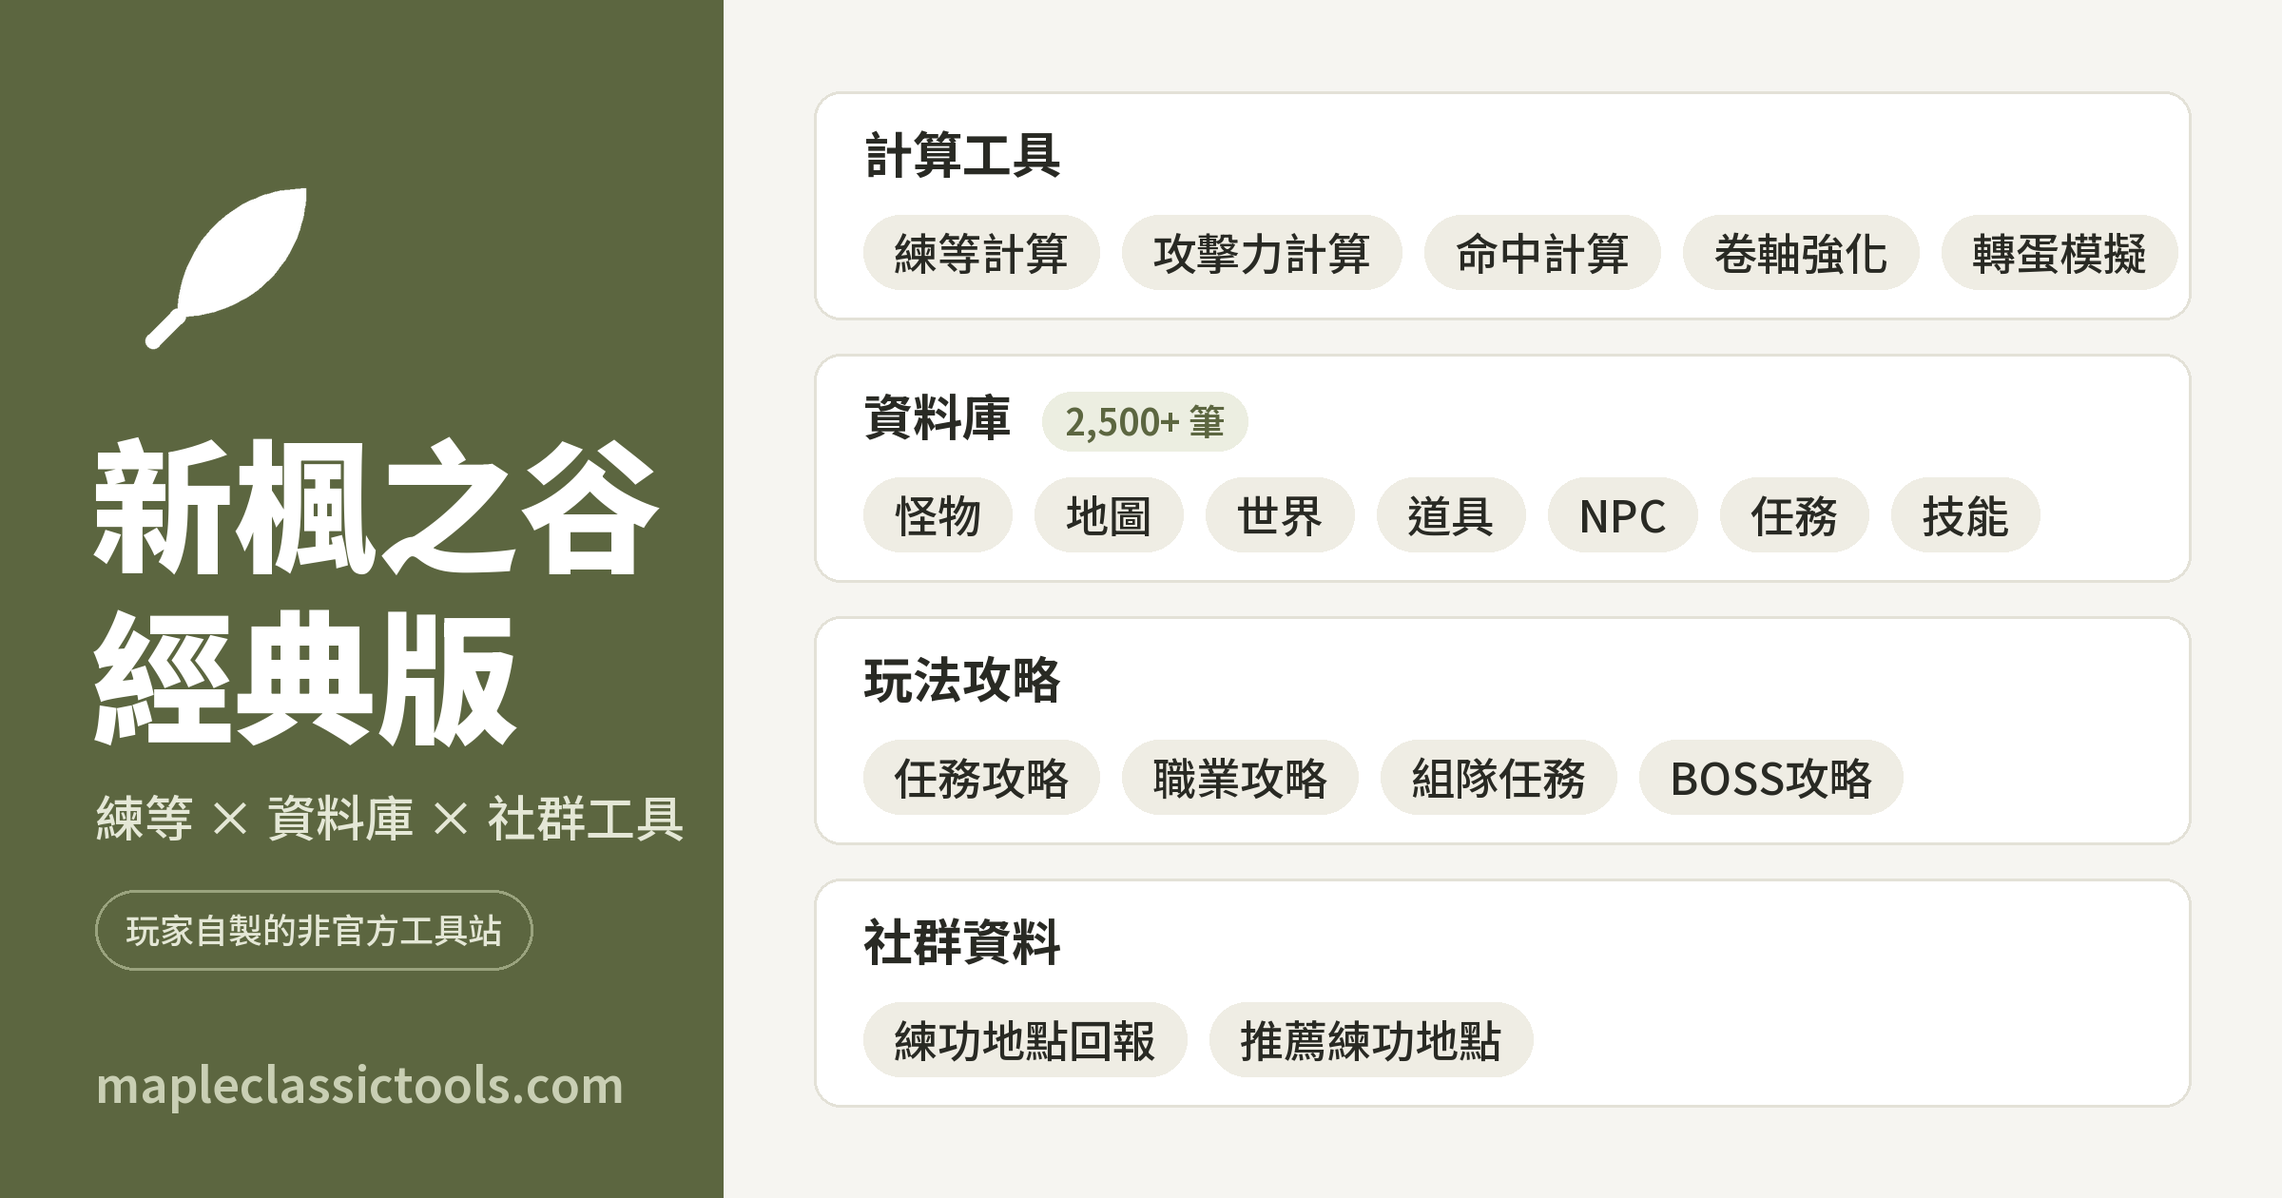
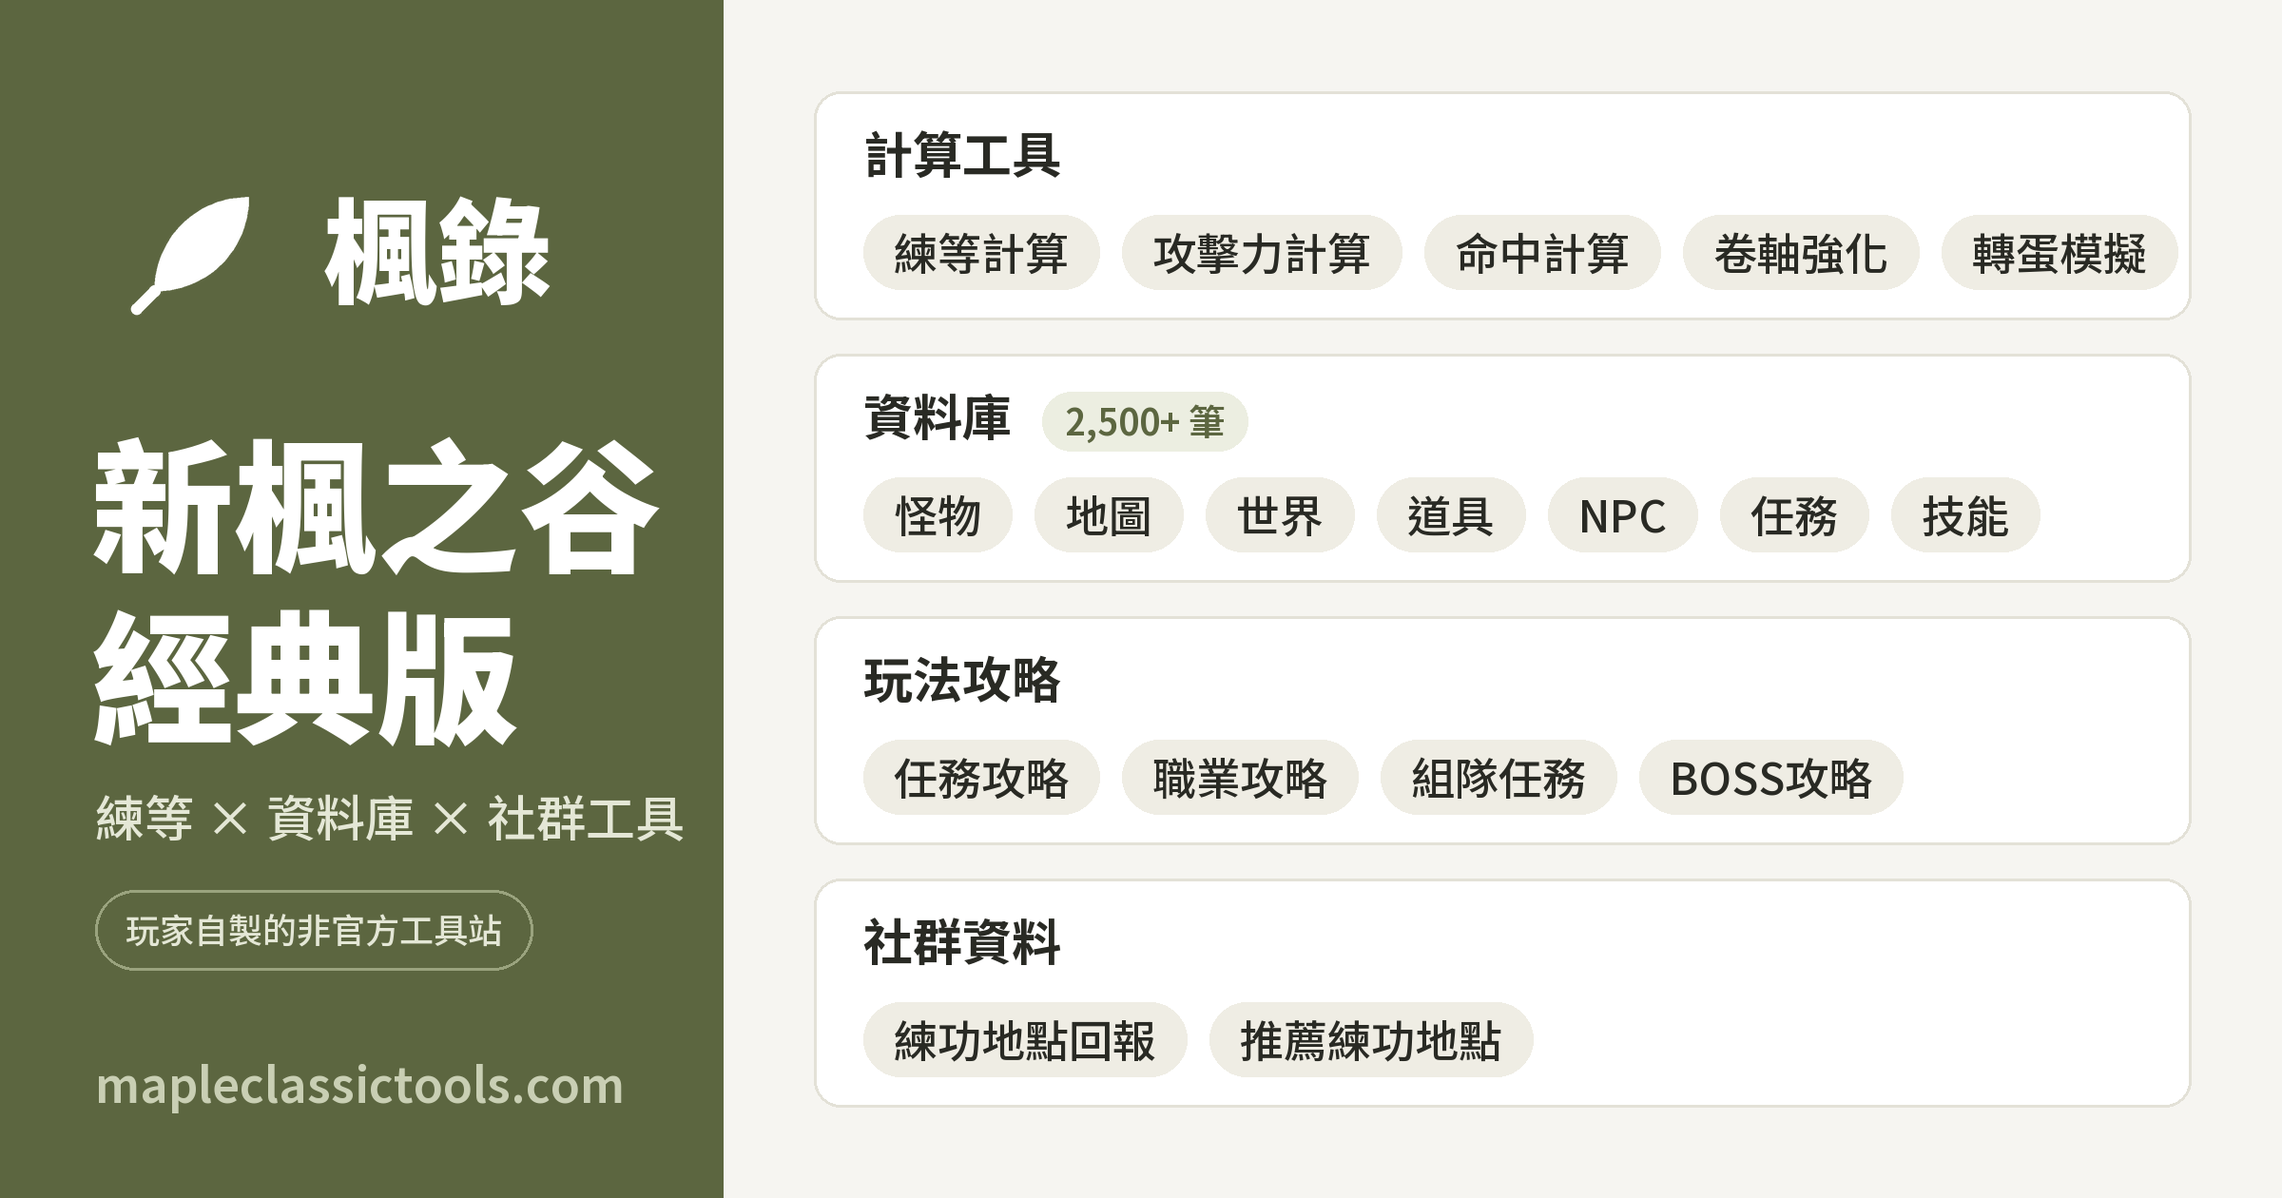
OG 預覽圖補上「楓錄」品牌名，版本戳 +1
圖片本身的文字是純文字掃描抓不到的地方（tools/check_seo_copy.py 的既有
提醒），改名之後這張圖沒跟著更新。在葉子 icon 旁邊掛上「楓錄」，跟站上
側邊欄 logo（icon + 站名並排）同一種排法；icon 縮小到 220px 讓字有地方放，
「新楓之谷經典版」大標題與其餘版面不變。

改完圖照 build_og.py 自己的提醒把全站 og-image.png?v= 版本號 11→12
（index.html、guides/*、privacy），避免分享出去的卡片還是 CDN 快取的舊圖。

順手掃過 robots.txt、JS 分享相關程式碼、icon-192/512.png，確認沒有其他
地方殘留舊站名或需要跟著改的東西。三支把關腳本全過。

Changed region(s): [[0.0625, 0.1548, 0.25, 0.3095]]

diff --git a/index.html b/index.html
@@ -23,7 +23,7 @@
 <meta property="og:site_name" content="楓錄">
 <meta property="og:locale" content="zh_TW">
 <meta property="og:url" content="https://mapleclassictools.com/">
-<meta property="og:image" content="https://mapleclassictools.com/og-image.png?v=11">
+<meta property="og:image" content="https://mapleclassictools.com/og-image.png?v=12">
 <meta property="og:image:width" content="2400">
 <meta property="og:image:height" content="1260">
 <meta property="og:title" content="楓錄｜新楓之谷經典版練等 × 資料庫 × 社群工具">
@@ -31,7 +31,7 @@
 <meta name="twitter:card" content="summary_large_image">
 <meta name="twitter:title" content="楓錄｜新楓之谷經典版練等 × 資料庫 × 社群工具">
 <meta name="twitter:description" content="練等經驗值試算、攻擊力與命中計算、卷軸與轉蛋模擬，加上怪物／地圖／道具／NPC／任務／技能完整資料庫與世界地圖，還有任務與職業攻略、社群練功地點。">
-<meta name="twitter:image" content="https://mapleclassictools.com/og-image.png?v=11">
+<meta name="twitter:image" content="https://mapleclassictools.com/og-image.png?v=12">
 <meta name="author" content="xyzzxc00">
 <meta name="keywords" content="新楓之谷經典版,練等計算機,楓之谷經典版,MapleStory Classic,經驗值計算,升級時間,加倍卷,練功地點,組隊任務,台版楓之谷經典服,經典版資料庫,怪物掉落查詢,命中率計算,攻擊力計算,傷害計算,表攻,世界地圖,任務攻略,職業攻略,裝備數值浮動">
 <link rel="canonical" href="https://mapleclassictools.com/">

diff --git a/guides/job-selection-guide/index.html b/guides/job-selection-guide/index.html
@@ -22,7 +22,7 @@
 <meta property="og:site_name" content="楓錄">
 <meta property="og:locale" content="zh_TW">
 <meta property="og:url" content="https://mapleclassictools.com/guides/job-selection-guide/">
-<meta property="og:image" content="https://mapleclassictools.com/og-image.png?v=11">
+<meta property="og:image" content="https://mapleclassictools.com/og-image.png?v=12">
 <meta property="og:image:width" content="2400">
 <meta property="og:image:height" content="1260">
 <meta property="og:title" content="新楓之谷經典版選職業指南：五大職業怎麼選？">
@@ -30,7 +30,7 @@
 <meta name="twitter:card" content="summary_large_image">
 <meta name="twitter:title" content="新楓之谷經典版選職業指南：五大職業怎麼選？">
 <meta name="twitter:description" content="從戰鬥距離、前期容錯率、上手難度、團隊定位幫你抓方向，附五大職業比較表與常見情境對照。">
-<meta name="twitter:image" content="https://mapleclassictools.com/og-image.png?v=11">
+<meta name="twitter:image" content="https://mapleclassictools.com/og-image.png?v=12">
 <meta name="author" content="xyzzxc00">
 <meta name="keywords" content="新楓之谷經典版,選職業,職業推薦,劍士系,法師系,弓箭手系,盜賊系,海盜系,新手攻略,MapleStory Classic">
 <link rel="canonical" href="https://mapleclassictools.com/guides/job-selection-guide/">

diff --git a/guides/coupon-stacking-guide/index.html b/guides/coupon-stacking-guide/index.html
@@ -22,7 +22,7 @@
 <meta property="og:site_name" content="楓錄">
 <meta property="og:locale" content="zh_TW">
 <meta property="og:url" content="https://mapleclassictools.com/guides/coupon-stacking-guide/">
-<meta property="og:image" content="https://mapleclassictools.com/og-image.png?v=11">
+<meta property="og:image" content="https://mapleclassictools.com/og-image.png?v=12">
 <meta property="og:image:width" content="2400">
 <meta property="og:image:height" content="1260">
 <meta property="og:title" content="加倍卷怎麼算最划算？新楓之谷經典版加倍卷解析">
@@ -30,7 +30,7 @@
 <meta name="twitter:card" content="summary_large_image">
 <meta name="twitter:title" content="加倍卷怎麼算最划算？新楓之谷經典版加倍卷解析">
 <meta name="twitter:description" content="多張同款卷是不是能疊更高倍率？加倍卷跟其他加成一起用該填多少進計算機？常見誤解跟計算邏輯一次講清楚。">
-<meta name="twitter:image" content="https://mapleclassictools.com/og-image.png?v=11">
+<meta name="twitter:image" content="https://mapleclassictools.com/og-image.png?v=12">
 <meta name="author" content="xyzzxc00">
 <meta name="keywords" content="新楓之谷經典版,加倍卷,經驗加成,倍率計算,練等計算機,MapleStory Classic">
 <link rel="canonical" href="https://mapleclassictools.com/guides/coupon-stacking-guide/">

diff --git a/guides/launch-leveling-guide/index.html b/guides/launch-leveling-guide/index.html
@@ -22,7 +22,7 @@
 <meta property="og:site_name" content="楓錄">
 <meta property="og:locale" content="zh_TW">
 <meta property="og:url" content="https://mapleclassictools.com/guides/launch-leveling-guide/">
-<meta property="og:image" content="https://mapleclassictools.com/og-image.png?v=11">
+<meta property="og:image" content="https://mapleclassictools.com/og-image.png?v=12">
 <meta property="og:image:width" content="2400">
 <meta property="og:image:height" content="1260">
 <meta property="og:title" content="開服第一天怎麼練？新楓之谷經典版 Lv.1~30 練功路線">
@@ -30,7 +30,7 @@
 <meta name="twitter:card" content="summary_large_image">
 <meta name="twitter:title" content="開服第一天怎麼練？新楓之谷經典版 Lv.1~30 練功路線">
 <meta name="twitter:description" content="楓之島別急著出、一轉時機、Lv.10~30 經典練功點，加上開服日最重要的人潮應對思路。">
-<meta name="twitter:image" content="https://mapleclassictools.com/og-image.png?v=11">
+<meta name="twitter:image" content="https://mapleclassictools.com/og-image.png?v=12">
 <meta name="author" content="xyzzxc00">
 <meta name="keywords" content="新楓之谷經典版,開服攻略,練功路線,Lv.1~30,新手攻略,練等,楓之島,MapleStory Classic">
 <link rel="canonical" href="https://mapleclassictools.com/guides/launch-leveling-guide/">

diff --git a/guides/job-advancement-guide/index.html b/guides/job-advancement-guide/index.html
@@ -22,7 +22,7 @@
 <meta property="og:site_name" content="楓錄">
 <meta property="og:locale" content="zh_TW">
 <meta property="og:url" content="https://mapleclassictools.com/guides/job-advancement-guide/">
-<meta property="og:image" content="https://mapleclassictools.com/og-image.png?v=11">
+<meta property="og:image" content="https://mapleclassictools.com/og-image.png?v=12">
 <meta property="og:image:width" content="2400">
 <meta property="og:image:height" content="1260">
 <meta property="og:title" content="新楓之谷經典版完整轉職路線攻略：一轉~四轉怎麼轉職">
@@ -30,7 +30,7 @@
 <meta name="twitter:card" content="summary_large_image">
 <meta name="twitter:title" content="新楓之谷經典版完整轉職路線攻略：一轉~四轉怎麼轉職">
 <meta name="twitter:description" content="五大職業一轉到四轉的完整任務流程：等級需求、NPC、地點、任務步驟一次整理。">
-<meta name="twitter:image" content="https://mapleclassictools.com/og-image.png?v=11">
+<meta name="twitter:image" content="https://mapleclassictools.com/og-image.png?v=12">
 <meta name="author" content="xyzzxc00">
 <meta name="keywords" content="新楓之谷經典版,轉職,一轉,二轉,三轉,四轉,轉職任務,pre-Big Bang,MapleStory Classic">
 <link rel="canonical" href="https://mapleclassictools.com/guides/job-advancement-guide/">

diff --git a/guides/scroll-expected-value-guide/index.html b/guides/scroll-expected-value-guide/index.html
@@ -22,7 +22,7 @@
 <meta property="og:site_name" content="楓錄">
 <meta property="og:locale" content="zh_TW">
 <meta property="og:url" content="https://mapleclassictools.com/guides/scroll-expected-value-guide/">
-<meta property="og:image" content="https://mapleclassictools.com/og-image.png?v=11">
+<meta property="og:image" content="https://mapleclassictools.com/og-image.png?v=12">
 <meta property="og:image:width" content="2400">
 <meta property="og:image:height" content="1260">
 <meta property="og:title" content="卷軸強化期望值怎麼算？新楓之谷經典版卷軸解析">
@@ -30,7 +30,7 @@
 <meta name="twitter:card" content="summary_large_image">
 <meta name="twitter:title" content="卷軸強化期望值怎麼算？新楓之谷經典版卷軸解析">
 <meta name="twitter:description" content="為什麼提早放棄報廢裝備反而更省錢？用實際數字拆解卷軸強化的期望值計算邏輯。">
-<meta name="twitter:image" content="https://mapleclassictools.com/og-image.png?v=11">
+<meta name="twitter:image" content="https://mapleclassictools.com/og-image.png?v=12">
 <meta name="author" content="xyzzxc00">
 <meta name="keywords" content="新楓之谷經典版,卷軸強化,期望值,卷軸機率,強化模擬,MapleStory Classic">
 <link rel="canonical" href="https://mapleclassictools.com/guides/scroll-expected-value-guide/">

diff --git a/guides/legacy-bosses/index.html b/guides/legacy-bosses/index.html
@@ -22,7 +22,7 @@
 <meta property="og:site_name" content="楓錄">
 <meta property="og:locale" content="zh_TW">
 <meta property="og:url" content="https://mapleclassictools.com/guides/legacy-bosses/">
-<meta property="og:image" content="https://mapleclassictools.com/og-image.png?v=11">
+<meta property="og:image" content="https://mapleclassictools.com/og-image.png?v=12">
 <meta property="og:image:width" content="2400">
 <meta property="og:image:height" content="1260">
 <meta property="og:title" content="新楓之谷經典版野王資料與前置任務攻略">
@@ -30,7 +30,7 @@
 <meta name="twitter:card" content="summary_large_image">
 <meta name="twitter:title" content="新楓之谷經典版野王資料與前置任務攻略">
 <meta name="twitter:description" content="27隻野王的等級、地點、重生時間，以及殘暴炎魔、闇黑龍王、拉圖斯的前置任務完整步驟。">
-<meta name="twitter:image" content="https://mapleclassictools.com/og-image.png?v=11">
+<meta name="twitter:image" content="https://mapleclassictools.com/og-image.png?v=12">
 <meta name="author" content="xyzzxc00">
 <meta name="keywords" content="新楓之谷經典版,野王,重生時間,殘暴炎魔,闇黑龍王,拉圖斯,前置任務,pre-Big Bang,MapleStory Classic">
 <link rel="canonical" href="https://mapleclassictools.com/guides/legacy-bosses/">

diff --git a/guides/exp-curve-guide/index.html b/guides/exp-curve-guide/index.html
@@ -22,7 +22,7 @@
 <meta property="og:site_name" content="楓錄">
 <meta property="og:locale" content="zh_TW">
 <meta property="og:url" content="https://mapleclassictools.com/guides/exp-curve-guide/">
-<meta property="og:image" content="https://mapleclassictools.com/og-image.png?v=11">
+<meta property="og:image" content="https://mapleclassictools.com/og-image.png?v=12">
 <meta property="og:image:width" content="2400">
 <meta property="og:image:height" content="1260">
 <meta property="og:title" content="經驗值表為什麼後期這麼陡？新楓之谷經典版">
@@ -30,7 +30,7 @@
 <meta name="twitter:card" content="summary_large_image">
 <meta name="twitter:title" content="經驗值表為什麼後期這麼陡？新楓之谷經典版">
 <meta name="twitter:description" content="Lv.199 升 200 要 20 億經驗值，用實際數字拆解 50 級後每級穩定成長 5.5% 的複利效果。">
-<meta name="twitter:image" content="https://mapleclassictools.com/og-image.png?v=11">
+<meta name="twitter:image" content="https://mapleclassictools.com/og-image.png?v=12">
 <meta name="author" content="xyzzxc00">
 <meta name="keywords" content="新楓之谷經典版,經驗值表,經驗曲線,pre-Big Bang,升級所需經驗,MapleStory Classic">
 <link rel="canonical" href="https://mapleclassictools.com/guides/exp-curve-guide/">

diff --git a/guides/exp-table/index.html b/guides/exp-table/index.html
@@ -22,7 +22,7 @@
 <meta property="og:site_name" content="楓錄">
 <meta property="og:locale" content="zh_TW">
 <meta property="og:url" content="https://mapleclassictools.com/guides/exp-table/">
-<meta property="og:image" content="https://mapleclassictools.com/og-image.png?v=11">
+<meta property="og:image" content="https://mapleclassictools.com/og-image.png?v=12">
 <meta property="og:image:width" content="2400">
 <meta property="og:image:height" content="1260">
 <meta property="og:title" content="新楓之谷經典版經驗值表 Lv.1~200 完整版">
@@ -30,7 +30,7 @@
 <meta name="twitter:card" content="summary_large_image">
 <meta name="twitter:title" content="新楓之谷經典版經驗值表 Lv.1~200 完整版">
 <meta name="twitter:description" content="每一級升級所需經驗與累積總量一次查，練到滿等共需約 387 億 EXP。">
-<meta name="twitter:image" content="https://mapleclassictools.com/og-image.png?v=11">
+<meta name="twitter:image" content="https://mapleclassictools.com/og-image.png?v=12">
 <meta name="author" content="xyzzxc00">
 <meta name="keywords" content="新楓之谷經典版,經驗值表,升級經驗,Lv.1~200,累積經驗,pre-Big Bang,MapleStory Classic">
 <link rel="canonical" href="https://mapleclassictools.com/guides/exp-table/">

diff --git a/guides/legacy-leveling-spots/index.html b/guides/legacy-leveling-spots/index.html
@@ -22,7 +22,7 @@
 <meta property="og:site_name" content="楓錄">
 <meta property="og:locale" content="zh_TW">
 <meta property="og:url" content="https://mapleclassictools.com/guides/legacy-leveling-spots/">
-<meta property="og:image" content="https://mapleclassictools.com/og-image.png?v=11">
+<meta property="og:image" content="https://mapleclassictools.com/og-image.png?v=12">
 <meta property="og:image:width" content="2400">
 <meta property="og:image:height" content="1260">
 <meta property="og:title" content="新楓之谷經典版舊版練功地點大全 Lv.1~113">
@@ -30,7 +30,7 @@
 <meta name="twitter:card" content="summary_large_image">
 <meta name="twitter:title" content="新楓之谷經典版舊版練功地點大全 Lv.1~113">
 <meta name="twitter:description" content="各等級區間的怪物與可打地圖對照表，共 67 筆整理。">
-<meta name="twitter:image" content="https://mapleclassictools.com/og-image.png?v=11">
+<meta name="twitter:image" content="https://mapleclassictools.com/og-image.png?v=12">
 <meta name="author" content="xyzzxc00">
 <meta name="keywords" content="新楓之谷經典版,練功地點,怪物分布,pre-Big Bang,練等地圖,MapleStory Classic">
 <link rel="canonical" href="https://mapleclassictools.com/guides/legacy-leveling-spots/">

diff --git a/privacy/index.html b/privacy/index.html
@@ -22,7 +22,7 @@
 <meta property="og:site_name" content="楓錄">
 <meta property="og:locale" content="zh_TW">
 <meta property="og:url" content="https://mapleclassictools.com/privacy/">
-<meta property="og:image" content="https://mapleclassictools.com/og-image.png?v=11">
+<meta property="og:image" content="https://mapleclassictools.com/og-image.png?v=12">
 <meta property="og:image:width" content="2400">
 <meta property="og:image:height" content="1260">
 <meta property="og:title" content="隱私政策｜楓錄">
@@ -30,7 +30,7 @@
 <meta name="twitter:card" content="summary_large_image">
 <meta name="twitter:title" content="隱私政策｜楓錄">
 <meta name="twitter:description" content="說明本站如何使用 Google Analytics、社群回報資料，以及 reCAPTCHA 保護機制。">
-<meta name="twitter:image" content="https://mapleclassictools.com/og-image.png?v=11">
+<meta name="twitter:image" content="https://mapleclassictools.com/og-image.png?v=12">
 <meta name="author" content="xyzzxc00">
 <meta name="robots" content="noindex, follow">
 <link rel="canonical" href="https://mapleclassictools.com/privacy/">

diff --git a/guides/index.html b/guides/index.html
@@ -22,7 +22,7 @@
 <meta property="og:site_name" content="楓錄">
 <meta property="og:locale" content="zh_TW">
 <meta property="og:url" content="https://mapleclassictools.com/guides/">
-<meta property="og:image" content="https://mapleclassictools.com/og-image.png?v=11">
+<meta property="og:image" content="https://mapleclassictools.com/og-image.png?v=12">
 <meta property="og:image:width" content="2400">
 <meta property="og:image:height" content="1260">
 <meta property="og:title" content="攻略文章｜楓錄">
@@ -30,7 +30,7 @@
 <meta name="twitter:card" content="summary_large_image">
 <meta name="twitter:title" content="攻略文章｜楓錄">
 <meta name="twitter:description" content="職業選擇、加倍卷數學、卷軸強化期望值等機制解說，搭配練等計算機一起服用。">
-<meta name="twitter:image" content="https://mapleclassictools.com/og-image.png?v=11">
+<meta name="twitter:image" content="https://mapleclassictools.com/og-image.png?v=12">
 <meta name="author" content="xyzzxc00">
 <link rel="canonical" href="https://mapleclassictools.com/guides/">
 <script type="application/ld+json">
